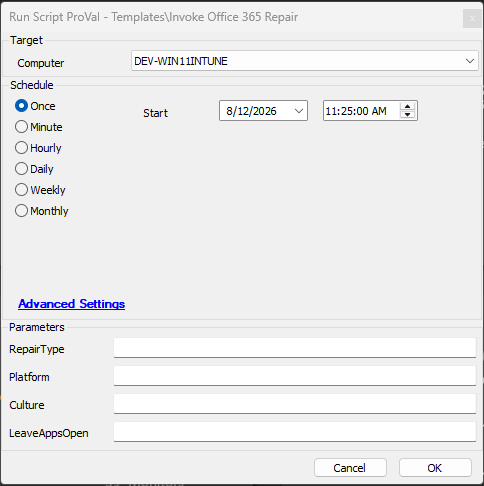
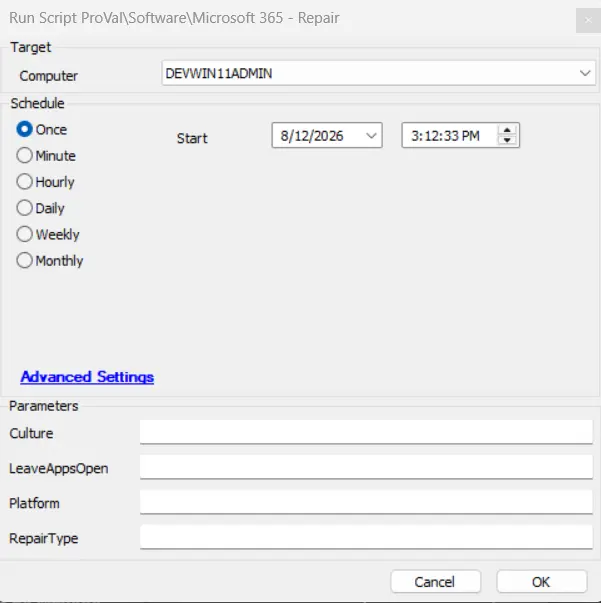
QA - Update
- Renamed script
- Updated sample run and its screenshots
- Enhanced the summary

diff --git a/docs/cwa/scripts/microsoft-365-repair.md b/docs/cwa/scripts/microsoft-365-repair.md
@@ -1,0 +1,56 @@
+---
+id: '49b48f71-763e-441b-92bf-008cb2073322'
+slug: /49b48f71-763e-441b-92bf-008cb2073322
+title: 'Microsoft 365 - Repair'
+title_meta: 'Microsoft 365 - Repair'
+keywords: ['repair', 'office 365', 'O365', 'Microsoft 365', 'M365']
+description: 'This is a CW Automate implementation of the agnostic script Invoke-Office365Repair'
+tags: ['office365', 'office']
+draft: false
+unlisted: false
+last_update:
+  date: 2026-08-12
+---
+
+## Summary
+
+ This is a CW Automate implementation of the agnostic script [Invoke-Office365Repair](/docs/b5cb3a64-95d8-4d68-be9f-a4e978923112).  
+
+ This script repairs the Microsoft 365 / Office 365 Click-to-Run apps on the local machine. It wraps Microsoft's own supported OfficeClickToRun.exe repair command line so that a Quick Repair or a Full (online) Repair can be triggered unattended from an RMM, with no user session and no prompts.
+
+## Dependencies
+
+- [Agnostic - Invoke-Office365Repair](/docs/b5cb3a64-95d8-4d68-be9f-a4e978923112)
+
+## Sample Run
+
+Run the script without any parameter to run a `QuickRepair` for the detected installed version of O365, closing all the office applications that are opened.
+
+![Sample 1](../../../static/img/docs/49b48f71-763e-441b-92bf-008cb2073322/image.webp)
+
+Run with shown parameters to perform a full repair on 32-bit Office with english language package installed.
+
+![Sample 2](../../../static/img/docs/49b48f71-763e-441b-92bf-008cb2073322/image1.webp)
+
+## User Parameters
+
+| Name | Required | Default | Example | Description   |
+|---------|---------|---------|---------|---------|
+| RepairType | True | `QuickRepair` | `QuickRepair`, `FullRepair` | This provides option to quick (short) or full (complete) repair for the Office 365. |
+| Platform | False | `Currently Installed` | `<Blank>`, `x86`, `x64`, `arm64` | This provides the option to select the platform that Office 365 uses. |
+| Culture | False | `Currently Installed` | `en-us` | The language code used to validate the existing installation binaries in the input language. |
+| LeaveAppsOpen | True | `False` | `0`, `1`, `True`, `False` | If 1 or true, then the office apps will not be forcibly closed. By default, the repair will close all opened office apps. | 
+
+
+## Output
+
+- Script Log
+- C:\ProgramData\_Automation\Script\Invoke-Office365Repair\Invoke-Office365Repair-Log.txt
+- C:\ProgramData\_Automation\Script\Invoke-Office365Repair\Invoke-Office365Repair-error.txt
+
+
+## Changelog
+
+### 2026-08-12
+
+- Initial version of the document
